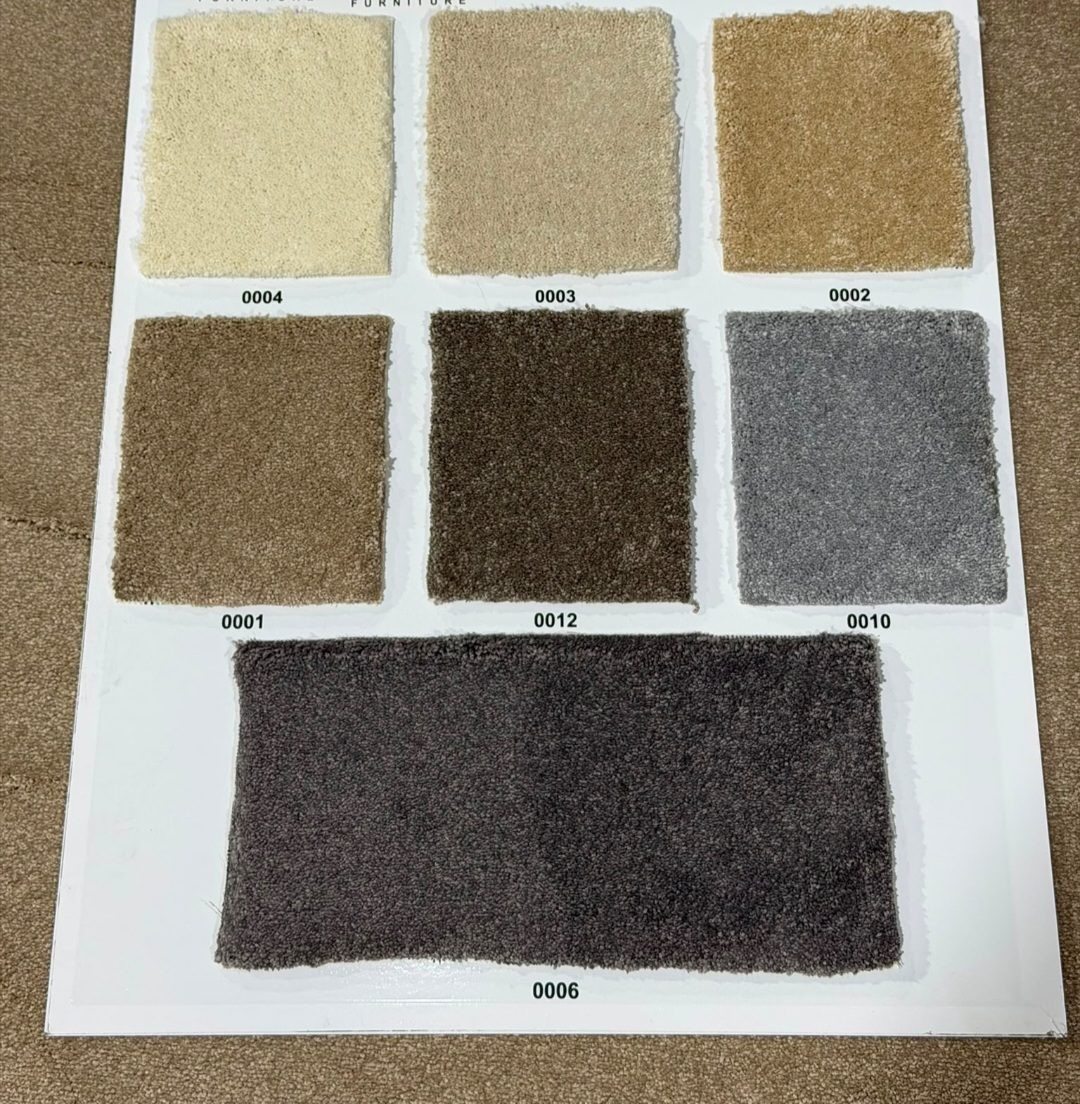
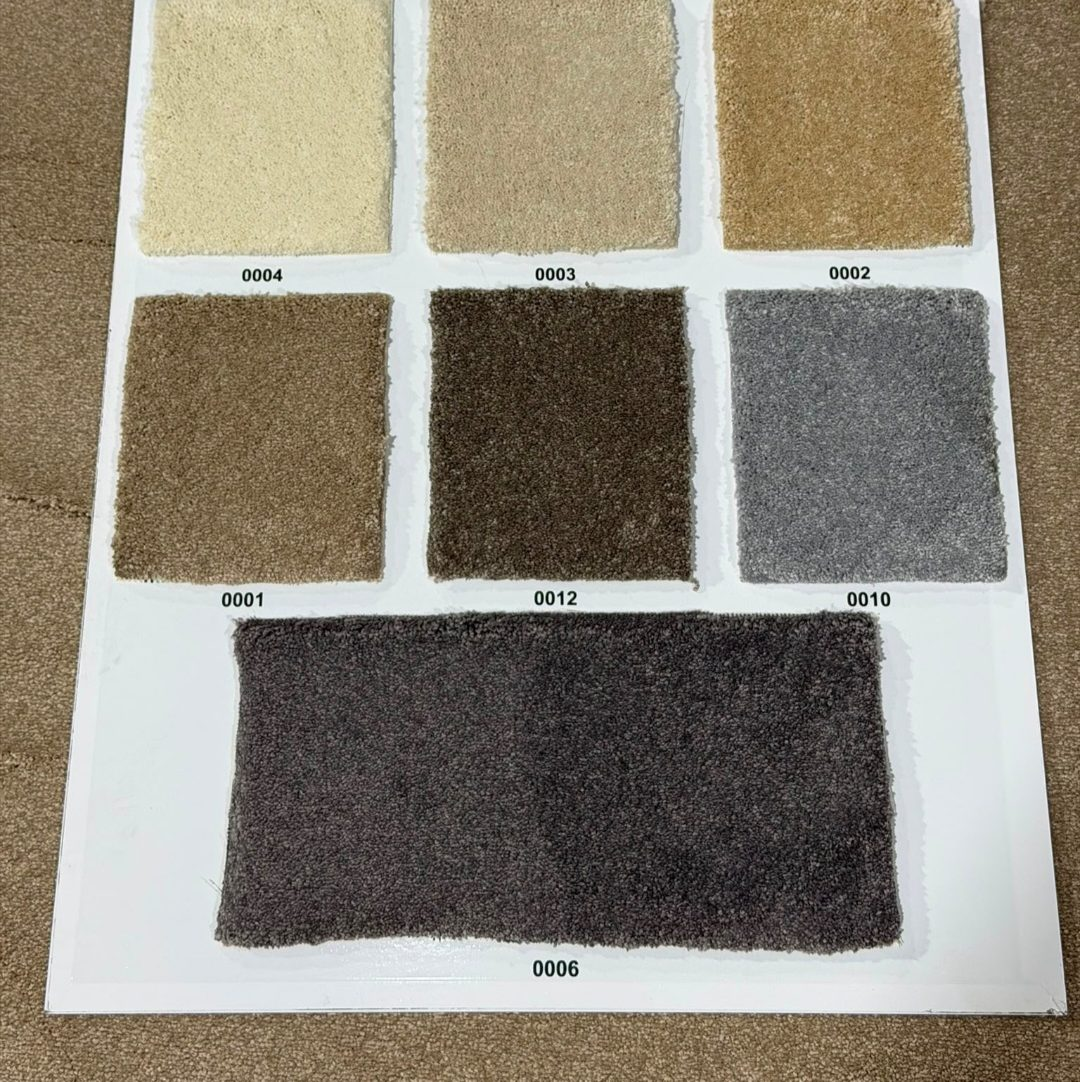
Step 21: publish 8 products (5 moquette collections, 3 hallway runners); clean watermark from images
Claude-Session: https://claude.ai/code/session_01Ji43jWsQ4uTwojZdPR25q4

Changed region(s): [[0.0, 0.0, 1.0, 0.976]]

diff --git a/docs/kuwait_carpet_seo_geo_plan_v2_3_bilingual.md b/docs/kuwait_carpet_seo_geo_plan_v2_3_bilingual.md
@@ -2496,7 +2496,7 @@ majlis carpet, diwaniya carpet, mosque carpet kuwait, hotel carpet, office carpe
 
 ---
 
-# 28. سجل التنفيذ وحالة الخطوات (آخر تحديث: 7 أكتوبر 2026، بعد الخطوة 20)
+# 28. سجل التنفيذ وحالة الخطوات (آخر تحديث: 7 أكتوبر 2026، بعد الخطوة 21)
 
 ## 28.1 القاعدة الإلزامية
 
@@ -2695,5 +2695,13 @@ majlis carpet, diwaniya carpet, mosque carpet kuwait, hotel carpet, office carpe
 - **«من أعمالنا الأخيرة» `/projects/` و`/ar/projects/`:** تُبنى فقط إن فُعّل الخيار في منتج واحد على الأقل (لا صفحة فارغة)، بطاقة: الصورة، اسم الخامة برابط صفحتها، المنطقة والمحافظة، الشهر، الملاحظة.
 - **تحقق فعلي:** `astro check` وESLint وPrettier بلا أخطاء. نشر تجريبي لكل شيء مع عمل تجريبي في السالمية: 31 صفحة (10 منتجات و2 أعمال)، حواجز الجودة سليمة على 30. لقطات جوال: بلا تمرير أفقي، وأُصلح التصاق رمز اللون بالاسم وانقلاب التاريخ في العربية. ثم أُعيد كل شيء مسودة بلا العمل التجريبي.
 
-**الخطوة 21 المرشحة:** مراجعة العميل للمنتجات الخمسة ونشرها مع صفحة البالمتر، ثم Search Console. تأمين الإدارة لاحقًا: توكن GitHub دقيق الصلاحية (Contents فقط لهذا المستودع) بدل التوكن الكامل، وحذف البوابة المؤقتة أو استبدالها.
+**الخطوة 21 (7 أكتوبر 2026) [تم جزئيًا]: نشر أول المنتجات**
+
+- **منشور الآن (16 صفحة، 8 منتجات بلغتين، مقفلة في `slugs.lock.json`):** المجموعات الخمس (رمال، سدرة، نسيم، حرير، دانة) بعد موافقة العميل على الأسماء، وثلاث مدات ممرات جديدة بمحتوى إنجليزي موسع (طلب العميل): Blossom Branch Hallway Runner (5 ألوان)، Greek Key Border Runner (رمادي بني، أزرق مخضر، أحمر)، Classic Dot Runner (أزرق داكن، أخضر). الكلمات الإنجليزية من 22.2 و22.3: carpet runner، runner rugs، hallway runner، long hallway runner (15 ft و20 ft)، runners for bedroom. 5 أسئلة إنجليزية و4 عربية لكل مدة، ونطاق 5–15 د.ك للمتر المربع.
+- **تنظيف الصور:** أُزيلت العلامة المائية لنشاط آخر (اسم ورقم هاتف) من لوحة نسيم بنسخ نسيج العينة نفسها، وقُص اسم علامة من أعلى لوحة رمال، وقُصت شارات «1/1» من صور المدات. لا رقم هاتف ولا اسم علامة أخرى في أي صورة أو نص.
+- **قرار العميل:** أرقام الألوان في اللوحات عينات فقط، فلا تُراجع (يُلغى سؤالا S-104 وSF-12/SF-17).
+- **تحقق:** `astro check` بلا أخطاء، `verify`: 19 صفحة، حواجز الجودة سليمة على 18، وتحذيرات صفحات يتيمة فقط (لا روابط واردة قبل نشر صفحتي البالمتر والممرات وقائمة التنقل).
+- **المتبقي:** روابط داخلية للمنتجات (نشر صفحتي البالمتر والممرات، أو صفحة فهرس للمنتجات، وقلب `live` في القائمة)، ومراجعة الإنجليزي للصفحات قبل نشرها.
+
+**الخطوة 22 المرشحة:** نشر صفحتي البالمتر والممرات (تعرضان شبكة المنتجات فتزول اليتامى)، ثم الصفحة الرئيسية الحقيقية والقائمة، ثم Search Console.
 **مؤجل بقرار العميل:** رابط موقع سالفورد. **تذكير:** لا ملف GBP.

diff --git a/CLAUDE.md b/CLAUDE.md
@@ -27,3 +27,7 @@ See [AGENTS.md](./AGENTS.md) for all project documentation and AI agent instruct
 
 - Admin at `/admin/` (Sveltia CMS). Config is generated at build from the schema lists in `src/pages/admin/config.yml.ts`; uploads become WebP (q80, max 1600px). Temporary password gate in `public/admin/index.html` (cosmetic, not security; saving needs a GitHub token). Admin is noindex, disallowed in robots, out of sitemap and quality gates.
 - Product pages `/products/<slug>/` (`ProductPage.astro`, full Product + AggregateOffer + FAQPage JSON-LD). EN product page builds only when `en.reviewed: true`. New product fields: `slug`, `priceRange`, `latestWork` (Kuwait area from `src/data/kuwait-areas.json`). Latest works page `/projects/` builds only when a product has `latestWork.show`.
+
+## Step 21
+
+- 8 products published and locked (5 moquette collections + 3 hallway runners with rich English copy). Watermark/brand removed from images. Colour codes on swatch boards are samples only (client); do not chase them.
